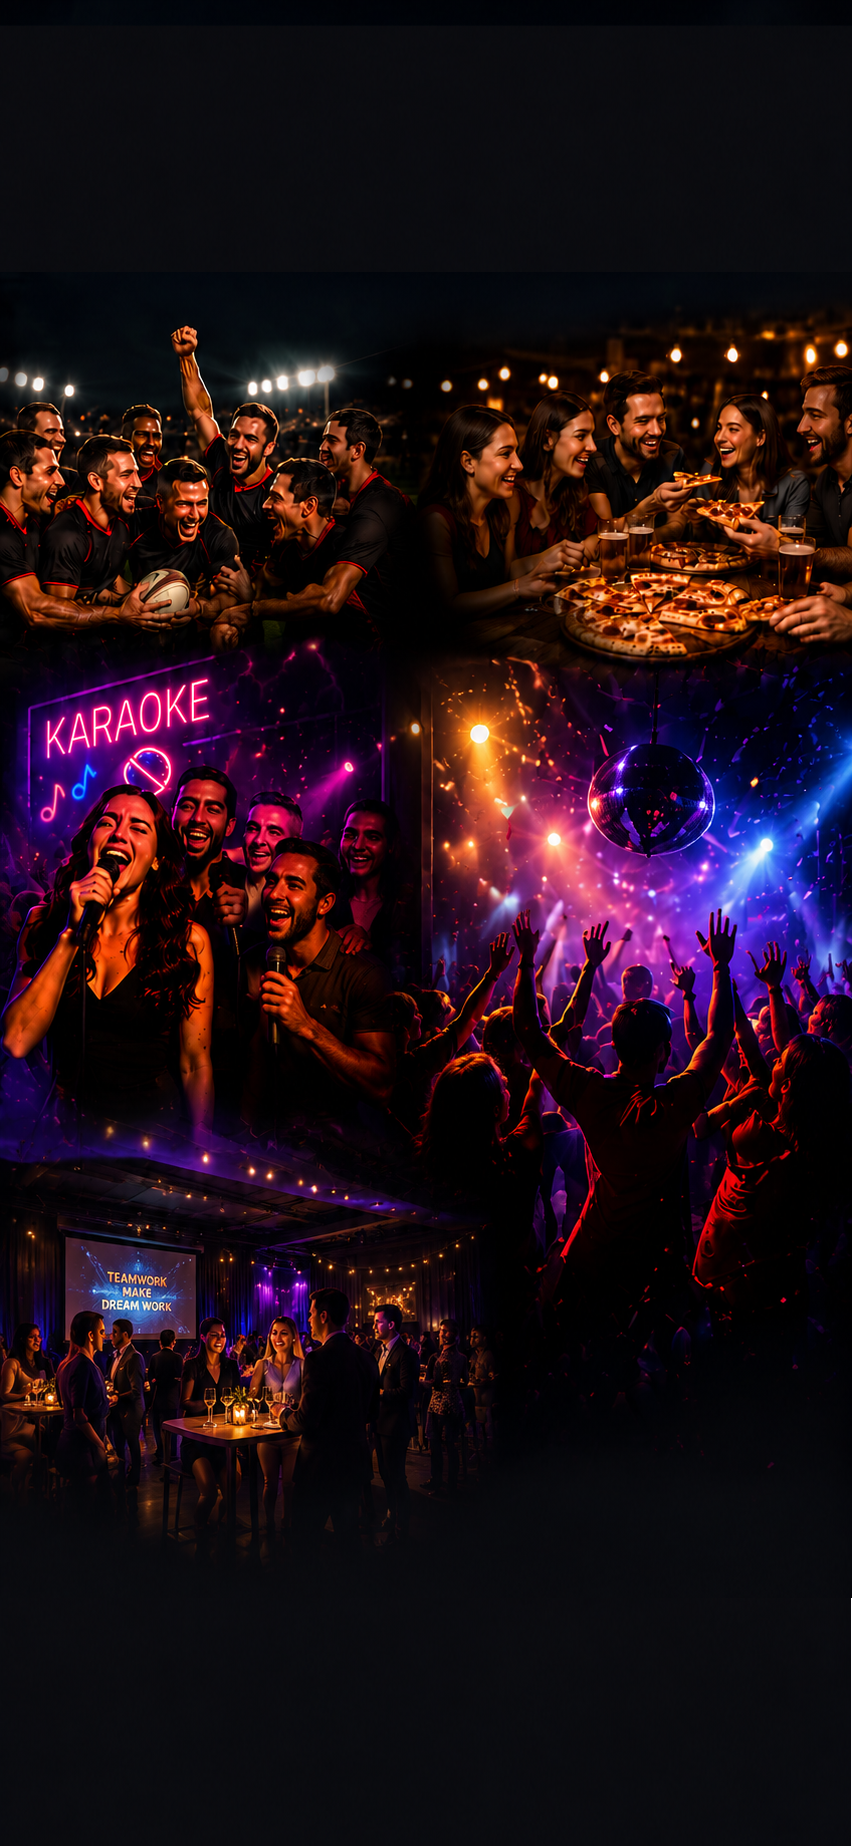
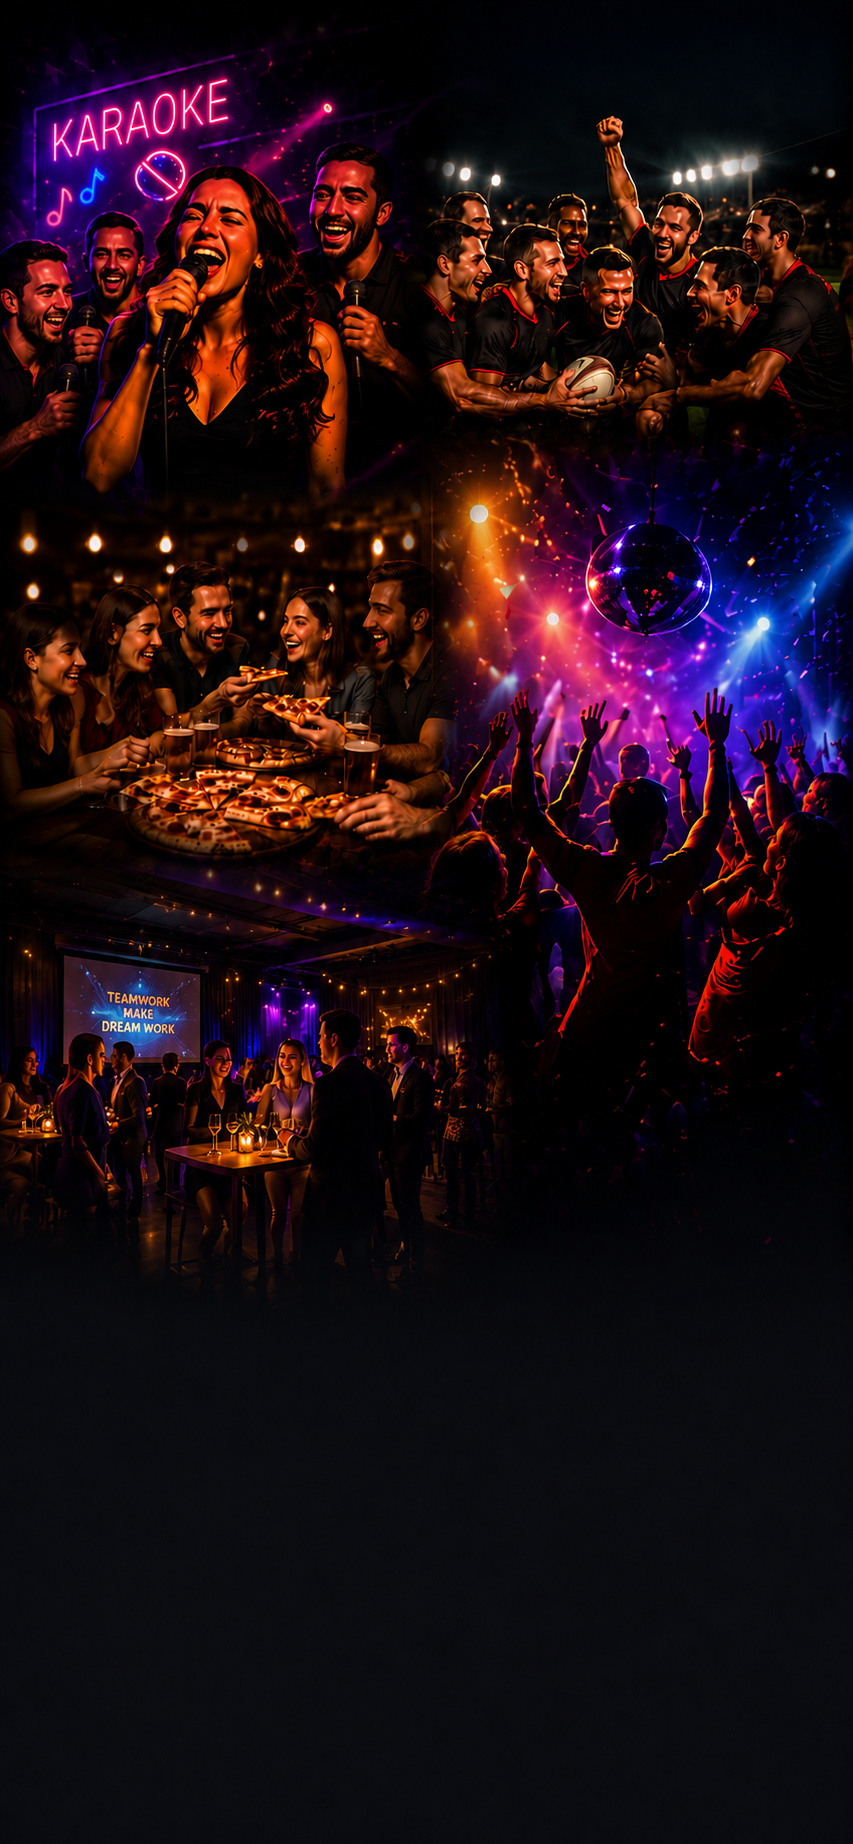
Adjust homepage background positioning

diff --git a/src/styles/HomePage.css b/src/styles/HomePage.css
@@ -25,7 +25,7 @@
   z-index: 0;
   background-image: url('../assets/images/homepage-background.png');
   background-size: cover;
-  background-position: center -42px;
+  background-position: center 90px;
   background-repeat: no-repeat;
   filter: brightness(1.35) contrast(1.1) saturate(1.12);
 }
@@ -450,7 +450,7 @@
   }
   
   .heroBg {
-    background-position: center -24px;
+    background-position: center 110px;
   }
 
   .bryan {